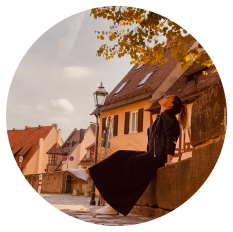
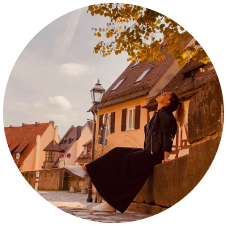
about

diff --git a/css/style.css b/css/style.css
@@ -46,14 +46,11 @@ a{
     padding: 0 20px;    
 }
 
-/* .large {
-    font-size: 1rem;
-} */
 
 .btn {
     display: inline-block;
     font-size: 1.5rem;
-    padding: 15px 40px;
+    
     
 }
 
@@ -66,7 +63,8 @@ a{
 }
 
 .btn-estilo:hover {
-    background: #b11c6b;
+    color: #eef4f7;
+    background: #8d008d;
     
 }
 
@@ -124,8 +122,8 @@ a{
 
 /*********HOVER FOTO PERFIL**********/
 .card1 {
-  width: 190px;
-  height: 184px;
+  width: 240px;
+  height: 230px;
   border-radius: 500px;
   transition: all .3s;
  }

diff --git a/index.html b/index.html
@@ -37,7 +37,7 @@
                         <a class="nav-link" href="#">Services</a>
                     </li>
                     <li class="nav-item">
-                        <a class="nav-link" href="pages/aboutme.html">About me</a>
+                        <a class="nav-link" href="#">About me</a>
                     </li>
                     <li class="nav-item">
                         <a class="nav-link" href="pages/contactme.html">Contact me</a>
